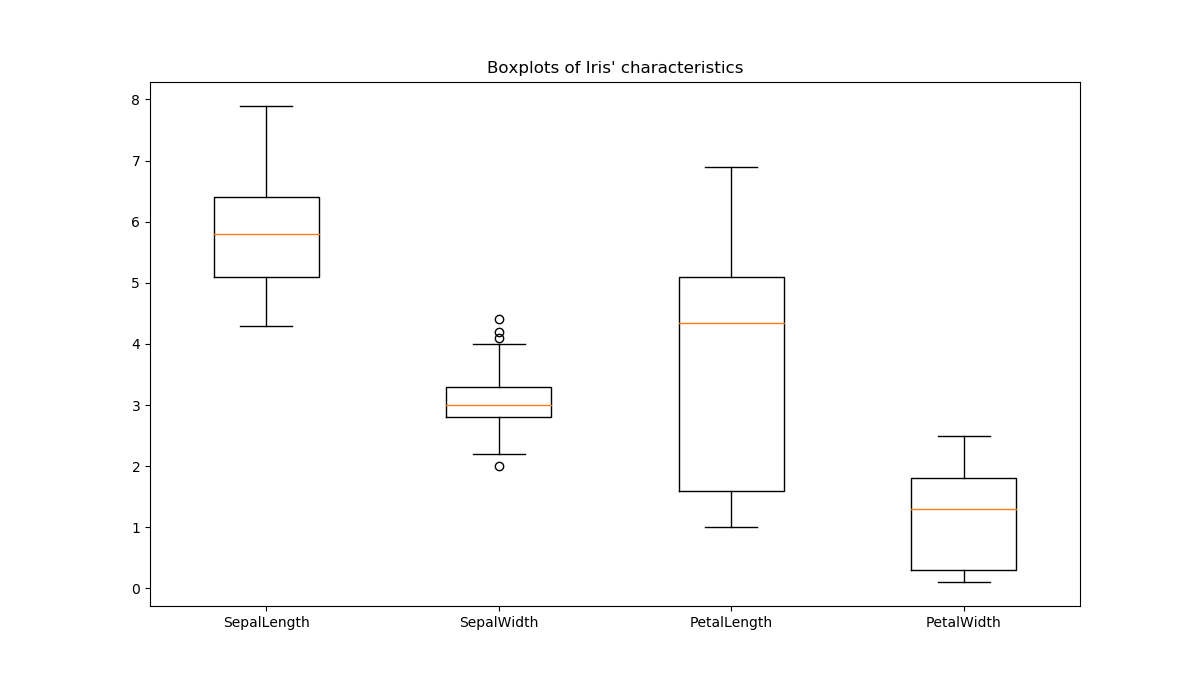
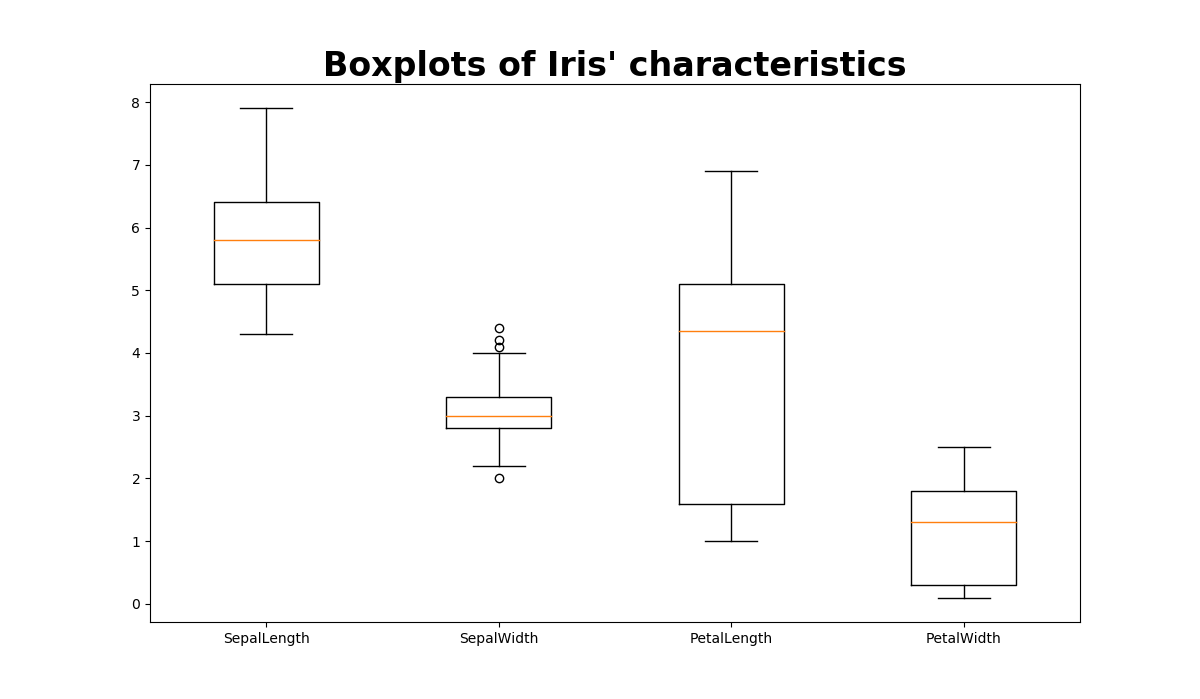
Update 'One Quantitative Variable'

diff --git a/EDA Examining Distributions/One Quantitative Variable/python/matplotlib_boxplot_example.py b/EDA Examining Distributions/One Quantitative Variable/python/matplotlib_boxplot_example.py
@@ -11,23 +11,7 @@ fig, ax = plt.subplots(figsize=(12, 7))
 result = ax.boxplot(x = quantitatives.values,
                     labels = quantitatives.columns,
                     notch = False)
-ax.set_title("Boxplots of Iris' characteristics")
-plt.show()
-
-# draw violin plot
-fig, ax = plt.subplots(figsize=(12, 7))
-result = ax.violinplot(dataset = quantitatives.values,
-                       showmeans = False,
-                       showmedians = True,
-                       showextrema = True)
-
-def set_axis_style(ax, labels):
-    ax.get_xaxis().set_tick_params(direction='out')
-    ax.xaxis.set_ticks_position('bottom')
-    ax.set_xticks(np.arange(1, len(labels) + 1))
-    ax.set_xticklabels(labels)
-    ax.set_xlim(0.25, len(labels) + 0.75)
-
-set_axis_style(ax, quantitatives.columns)
-ax.set_title("Violin Plot of Iris' characteristics")
+ax.set_title(label = "Boxplots of Iris' characteristics",
+             fontdict = {'fontsize': 24,
+                         'fontweight': 'bold'})
 plt.show()

diff --git a/EDA Examining Distributions/One Quantitative Variable/python/matplotlib_violinplot_example.py b/EDA Examining Distributions/One Quantitative Variable/python/matplotlib_violinplot_example.py
@@ -1,0 +1,27 @@
+import numpy as np
+import pandas as pd
+import matplotlib.pyplot as plt
+
+# read in the data
+iris = pd.read_csv('../../../data/iris.csv')
+quantitatives = iris[['SepalLength', 'SepalWidth', 'PetalLength', 'PetalWidth']]
+
+# draw violin plot
+fig, ax = plt.subplots(figsize=(12, 7))
+result = ax.violinplot(dataset = quantitatives.values,
+                       showmeans = False,
+                       showmedians = True,
+                       showextrema = True)
+
+def set_axis_style(ax, labels):
+    ax.get_xaxis().set_tick_params(direction='out')
+    ax.xaxis.set_ticks_position('bottom')
+    ax.set_xticks(np.arange(1, len(labels) + 1))
+    ax.set_xticklabels(labels)
+    ax.set_xlim(0.25, len(labels) + 0.75)
+
+set_axis_style(ax, quantitatives.columns)
+ax.set_title(label = "Boxplots of Iris' characteristics",
+             fontsize = 24,
+             fontweight = 'bold')
+plt.show()

diff --git a/EDA Examining Distributions/One Quantitative Variable/python/seaborn_boxplot_example.py b/EDA Examining Distributions/One Quantitative Variable/python/seaborn_boxplot_example.py
@@ -16,5 +16,7 @@ ax = sns.boxplot(data = quantitatives,      # Create boxplot
 ax = sns.swarmplot(data = quantitatives,    # Add points
                    color = ".4",            # color: one float number is for the grey level
                    size = 3.5 )             # size: the size for the marker
-ax.set_title("Boxplots of Iris' characteristics")
+ax.set_title(label = "Boxplots of Iris' characteristics",
+             fontsize = 24,
+             fontweight = 'bold')
 plt.show()

diff --git a/EDA Examining Distributions/One Quantitative Variable/README.md b/EDA Examining Distributions/One Quantitative Variable/README.md
@@ -39,7 +39,8 @@
 
 
 ## Side-by-side boxplot
-Note that this example provides more intuition about variability by interpreting small variability as consistency, and large variability as lack of consistency. Also, through this example we learned that the center of the distribution is more meaningful as a typical value for the distribution when there is little variability (or, as statisticians say, little "noise") around it. When there is large variability, the center loses its practical meaning as a typical value.
+- Interpreting small variability as consistency, and large variability as lack of consistency.
+- The center of the distribution is more meaningful as a typical value for the distribution when there is little variability (or, as statisticians say, little "noise") around it. When there is large variability, the center loses its practical meaning as a typical value.
 
 ### ［Boxplot］ Python: Matplotlib.pyplot 
 ```python
@@ -62,4 +63,4 @@ plt.show()
 ```
 ![Image of Seaborn Boxplot Example](https://github.com/kevinkevin556/SRDV/blob/master/EDA%20Examining%20Distributions/One%20Quantitative%20Variable/image/seaborn_boxplot.png?raw=true)
 - seaborn.boxplot: https://seaborn.pydata.org/generated/seaborn.boxplot.html?highlight=boxplot#seaborn.boxplot
-- 
+- Horizontal boxplot with observations: https://seaborn.pydata.org/examples/horizontal_boxplot.html
